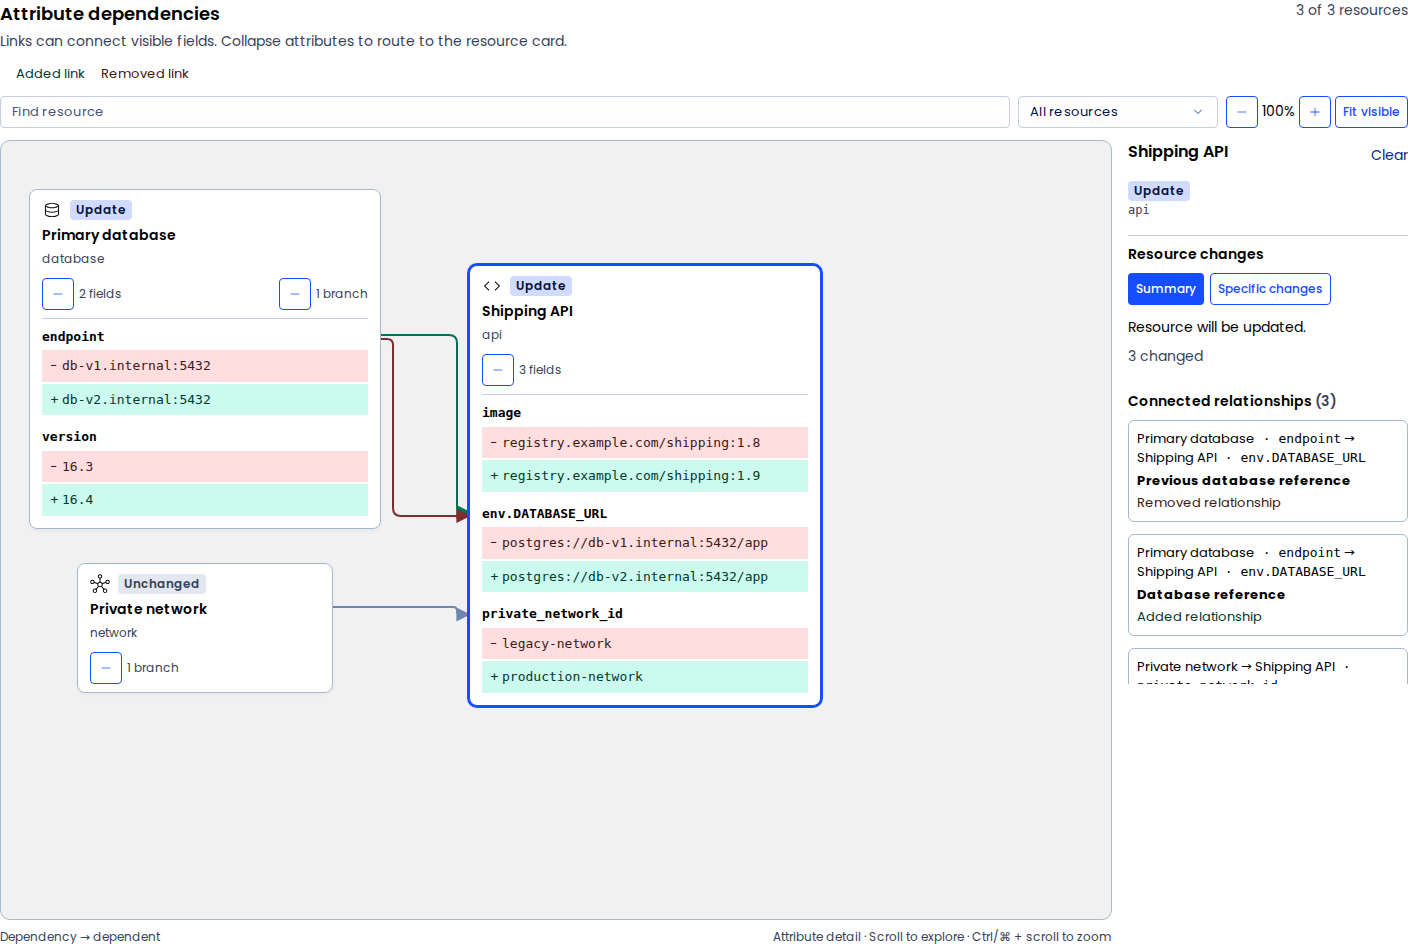
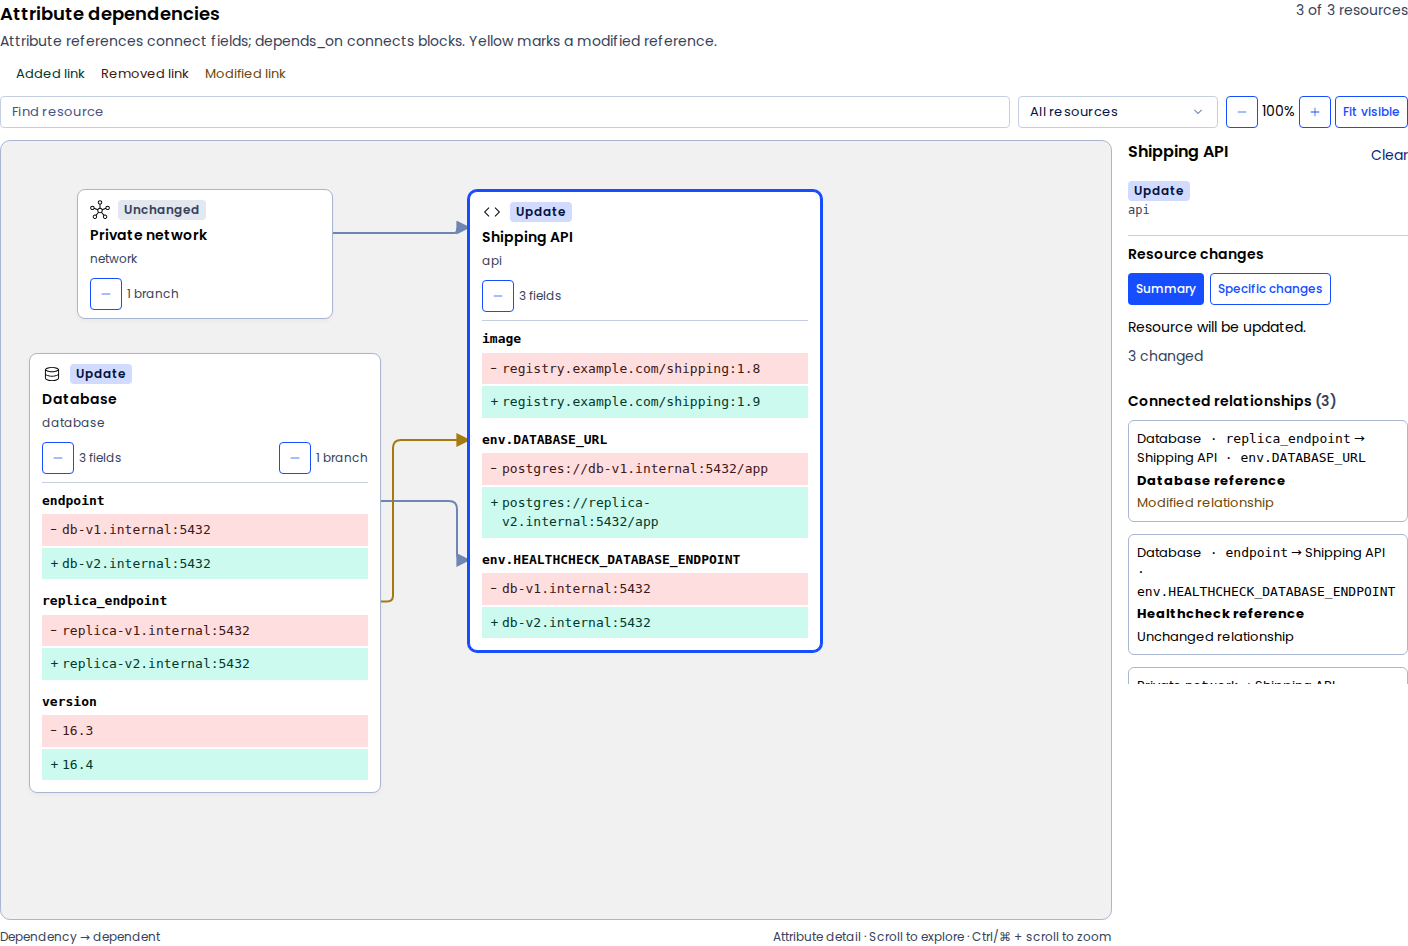
feat: distinguish modified attribute references from block dependencies

diff --git a/easy-ui-react/src/DependencyGraph/DependencyGraph.tsx b/easy-ui-react/src/DependencyGraph/DependencyGraph.tsx
@@ -607,7 +607,10 @@ export function DependencyGraph({
         </p>
       )}
       {edges.some(
-        (edge) => edge.change === "add" || edge.change === "remove",
+        (edge) =>
+          edge.change === "add" ||
+          edge.change === "remove" ||
+          edge.change === "update",
       ) && (
         <p
           className={styles.linkLegend}
@@ -619,6 +622,11 @@ export function DependencyGraph({
           <span className={styles.linkChange} data-link-change="remove">
             Removed link
           </span>
+          {edges.some((edge) => edge.change === "update") && (
+            <span className={styles.linkChange} data-link-change="update">
+              Modified link
+            </span>
+          )}
         </p>
       )}
       <div className={styles.toolbar}>
@@ -864,23 +872,27 @@ export function DependencyGraph({
                       aria-hidden="true"
                     >
                       <defs>
-                        {["unknown", "unchanged", "add", "remove"].map(
-                          (change) => (
-                            <marker
-                              key={change}
-                              id={`${instanceId}-arrow-${change}`}
-                              data-link-change={change}
-                              viewBox="0 0 10 10"
-                              refX="9"
-                              refY="5"
-                              markerWidth="7"
-                              markerHeight="7"
-                              orient="auto-start-reverse"
-                            >
-                              <path d="M 0 0 L 10 5 L 0 10 z" />
-                            </marker>
-                          ),
-                        )}
+                        {[
+                          "unknown",
+                          "unchanged",
+                          "add",
+                          "remove",
+                          "update",
+                        ].map((change) => (
+                          <marker
+                            key={change}
+                            id={`${instanceId}-arrow-${change}`}
+                            data-link-change={change}
+                            viewBox="0 0 10 10"
+                            refX="9"
+                            refY="5"
+                            markerWidth="7"
+                            markerHeight="7"
+                            orient="auto-start-reverse"
+                          >
+                            <path d="M 0 0 L 10 5 L 0 10 z" />
+                          </marker>
+                        ))}
                       </defs>
                       {connections.map((connection) => {
                         const ids = connection.edges.map((edge) => edge.id);
@@ -929,7 +941,7 @@ export function DependencyGraph({
                               {connection.edges
                                 .map(
                                   (edge) =>
-                                    `${edge.change === "add" ? "Added: " : edge.change === "remove" ? "Removed: " : ""}${edge.label ?? edge.id}`,
+                                    `${edge.change === "add" ? "Added: " : edge.change === "remove" ? "Removed: " : edge.change === "update" ? "Modified: " : ""}${edge.label ?? edge.id}`,
                                 )
                                 .join("; ")}
                             </title>

diff --git a/easy-ui-react/src/DependencyGraph/DependencyGraph.fixtures.ts b/easy-ui-react/src/DependencyGraph/DependencyGraph.fixtures.ts
@@ -298,7 +298,7 @@ export const relationshipChangeEdges: DependencyGraphEdge[] = [
 export const attributeDependencyNodes: DependencyGraphNode[] = [
   {
     id: "database",
-    label: "Primary database",
+    label: "Database",
     icon: DatabaseIcon,
     iconLabel: "Database",
     change: "update",
@@ -308,6 +308,12 @@ export const attributeDependencyNodes: DependencyGraphNode[] = [
         type: "change",
         before: "db-v1.internal:5432",
         after: "db-v2.internal:5432",
+      },
+      {
+        path: "replica_endpoint",
+        type: "change",
+        before: "replica-v1.internal:5432",
+        after: "replica-v2.internal:5432",
       },
       { path: "version", type: "change", before: "16.3", after: "16.4" },
     ],
@@ -336,42 +342,47 @@ export const attributeDependencyNodes: DependencyGraphNode[] = [
         path: "env.DATABASE_URL",
         type: "change",
         before: "postgres://db-v1.internal:5432/app",
-        after: "postgres://db-v2.internal:5432/app",
+        after: "postgres://replica-v2.internal:5432/app",
       },
       {
-        path: "private_network_id",
+        path: "env.HEALTHCHECK_DATABASE_ENDPOINT",
         type: "change",
-        before: "legacy-network",
-        after: "production-network",
+        before: "db-v1.internal:5432",
+        after: "db-v2.internal:5432",
       },
     ],
   },
 ];
 export const attributeDependencyEdges: DependencyGraphEdge[] = [
   {
-    id: "old-database-reference",
+    id: "database-reference",
     source: "database",
     target: "api",
-    sourceAttributePath: "endpoint",
+    sourceAttributePath: "replica_endpoint",
     targetAttributePath: "env.DATABASE_URL",
-    change: "remove",
-    label: "Previous database reference",
-  },
-  {
-    id: "new-database-reference",
-    source: "database",
-    target: "api",
-    sourceAttributePath: "endpoint",
-    targetAttributePath: "env.DATABASE_URL",
-    change: "add",
+    change: "update",
     label: "Database reference",
+    description:
+      "Reference changed from database.primary.endpoint to database.primary.replica_endpoint. The caller matches it as one modified relationship.",
   },
   {
-    id: "network-reference",
+    id: "healthcheck-reference",
+    source: "database",
+    target: "api",
+    sourceAttributePath: "endpoint",
+    targetAttributePath: "env.HEALTHCHECK_DATABASE_ENDPOINT",
+    change: "unchanged",
+    label: "Healthcheck reference",
+    description:
+      "The expression still references database.primary.endpoint. Its resolved value changes, but the relationship remains unchanged.",
+  },
+  {
+    id: "network-depends-on",
     source: "network",
     target: "api",
-    targetAttributePath: "private_network_id",
     change: "unchanged",
-    label: "Private network reference",
+    label: "Explicit depends_on",
+    description:
+      "depends_on = [network.private] creates a block-to-block dependency.",
   },
 ];

diff --git a/easy-ui-react/src/DependencyGraph/DependencyGraph.test.tsx b/easy-ui-react/src/DependencyGraph/DependencyGraph.test.tsx
@@ -631,3 +631,45 @@ describe("DependencyGraph zoom and branch disclosures", () => {
     expect(additions[2]).toHaveTextContent("😀new");
   });
 });
+
+it("renders a caller-matched modified reference once and preserves its selection identity", () => {
+  const { container } = render(
+    <DependencyGraph
+      title="References"
+      nodes={[
+        { id: "a", label: "A", change: "unchanged" },
+        { id: "b", label: "B", change: "unchanged" },
+      ]}
+      edges={[
+        {
+          id: "reference",
+          source: "a",
+          target: "b",
+          sourceAttributePath: "endpoint",
+          targetAttributePath: "url",
+          change: "update",
+          label: "Database reference",
+        },
+      ]}
+      defaultView={{ scope: "changes", depth: 0 }}
+      defaultSelection={{ type: "node", id: "b" }}
+    />,
+  );
+  expect(container.querySelectorAll("[data-graph-edge-ids]")).toHaveLength(1);
+  const edge = container.querySelector("[data-graph-edge-ids]");
+  expect(edge).toHaveAttribute(
+    "data-graph-edge-ids",
+    JSON.stringify(["reference"]),
+  );
+  expect(edge).toHaveAttribute("data-link-change", "update");
+  expect(edge?.querySelector("path[marker-end]")).toHaveAttribute(
+    "marker-end",
+    expect.stringContaining("arrow-update"),
+  );
+  expect(screen.getByText("Modified link")).toBeInTheDocument();
+  const relationship = screen.getByRole("button", {
+    name: /Database reference.*Modified relationship/,
+  });
+  fireEvent.click(relationship);
+  expect(relationship).toHaveAttribute("aria-pressed", "true");
+});

diff --git a/easy-ui-react/src/DependencyGraph/model.test.ts b/easy-ui-react/src/DependencyGraph/model.test.ts
@@ -238,17 +238,20 @@ it("preserves separate added and removed links when collapsing endpoints into gr
       .sort(),
   ).toEqual([["new", "other-add"], ["old"]]);
 });
-it("includes both supplied endpoints of changed links in the changes view at depth zero", () => {
-  expect(
-    [
-      ...visibleDependencyNodes(
-        [
-          { id: "a", label: "A", change: "unchanged" },
-          { id: "b", label: "B", change: "unchanged" },
-        ],
-        [{ id: "link", source: "a", target: "b", change: "remove" }],
-        { scope: "changes", depth: 0 },
-      ),
-    ].sort(),
-  ).toEqual(["a", "b"]);
-});
+it.each(["add", "remove", "update"] as const)(
+  "includes endpoints of %s links in changes scope with unchanged resources",
+  (change) => {
+    expect(
+      [
+        ...visibleDependencyNodes(
+          [
+            { id: "a", label: "A", change: "unchanged" },
+            { id: "b", label: "B", change: "unchanged" },
+          ],
+          [{ id: "link", source: "a", target: "b", change }],
+          { scope: "changes", depth: 0 },
+        ),
+      ].sort(),
+    ).toEqual(["a", "b"]);
+  },
+);

diff --git a/easy-ui-react/src/DependencyGraph/types.ts b/easy-ui-react/src/DependencyGraph/types.ts
@@ -41,7 +41,7 @@ export type DependencyGraphNode = {
 
 /** Caller-supplied relationship delta, independent of resource operations. */
 export type DependencyGraphEdgeChange =
-  "add" | "remove" | "unchanged" | "unknown";
+  "add" | "remove" | "update" | "unchanged" | "unknown";
 
 export type DependencyGraphEdge = {
   id: string;
@@ -54,9 +54,9 @@ export type DependencyGraphEdge = {
   description?: string;
   /** Presentation only. For example, use dashed for an inferred relationship. */
   variant?: "solid" | "dashed";
-  /** Omitted status is unknown. Supply both old and new links to review topology changes. */
+  /** Omitted status is unknown. Use update for a caller-matched modified relationship, rendered once. */
   change?: DependencyGraphEdgeChange;
-  /** Exact path of a visible source attribute; falls back to the card when hidden. */
+  /** Reference attribute path; omit both paths for block-level depends_on. Hidden fields fall back to the card. */
   sourceAttributePath?: string;
   /** Exact path of a visible dependent attribute; falls back to the card when hidden. */
   targetAttributePath?: string;

diff --git a/easy-ui-react/src/DependencyGraph/DependencyGraphDetails.tsx b/easy-ui-react/src/DependencyGraph/DependencyGraphDetails.tsx
@@ -199,9 +199,11 @@ export function DependencyGraphDetails(props: DependencyGraphDetailsProps) {
                         ? "Added relationship"
                         : edge.change === "remove"
                           ? "Removed relationship"
-                          : edge.change === "unchanged"
-                            ? "Unchanged relationship"
-                            : "Relationship change unknown"}
+                          : edge.change === "update"
+                            ? "Modified relationship"
+                            : edge.change === "unchanged"
+                              ? "Unchanged relationship"
+                              : "Relationship change unknown"}
                     </span>
                   </button>
                   {(!source || !target) && (

diff --git a/easy-ui-react/src/DependencyGraph/model.ts b/easy-ui-react/src/DependencyGraph/model.ts
@@ -258,7 +258,10 @@ export function visibleDependencyNodes(
           .concat(
             edges
               .filter(
-                (edge) => edge.change === "add" || edge.change === "remove",
+                (edge) =>
+                  edge.change === "add" ||
+                  edge.change === "remove" ||
+                  edge.change === "update",
               )
               .flatMap((edge) => [edge.source, edge.target])
               .filter((id) => records.has(id)),

diff --git a/easy-ui-react/src/DependencyGraph/DependencyGraph.stories.tsx b/easy-ui-react/src/DependencyGraph/DependencyGraph.stories.tsx
@@ -245,7 +245,7 @@ export const AttributeDependencies: Story = {
   args: {
     title: "Attribute dependencies",
     description:
-      "Links can connect visible fields. Collapse attributes to route to the resource card.",
+      "Attribute references connect fields; depends_on connects blocks. Yellow marks a modified reference.",
     nodes: attributeDependencyNodes,
     edges: attributeDependencyEdges,
     groups: [],

diff --git a/easy-ui-react/src/DependencyGraph/DependencyGraph.module.scss b/easy-ui-react/src/DependencyGraph/DependencyGraph.module.scss
@@ -634,3 +634,13 @@
   padding: 0 16px 12px;
   font-size: 0.8125rem;
 }
+
+.connection[data-link-change="update"] .edgeLine {
+  stroke: design-token("color.warning.700");
+}
+.edges marker[data-link-change="update"] {
+  fill: design-token("color.warning.700");
+}
+.linkChange[data-link-change="update"] {
+  color: design-token("color.warning.800");
+}

diff --git a/easy-ui-react/skills/easy-ui/references/components.md b/easy-ui-react/skills/easy-ui/references/components.md
@@ -128,6 +128,6 @@ Each DependencyGraph resource can supply `changeSummary` and typed `changes` for
 
 `ExpandButton` and `CollapseButton` provide reusable positive (+) and negative (−) disclosure controls. Supply `accessibilityLabel`, `aria-controls`, and `onPress`; control `expanded` to retain focus while changing the symbol. `DependencyGraph` uses these for inline attributes, groups, and dependent branches. `collapsedNodeIds`/`onCollapsedNodeIdsChange` fold branches independently of `collapsedGroupIds`. Shared resources remain visible through other open paths. Nodes accept the standard `IconSymbol` as `icon` and a caller-owned `iconLabel`. Zoom changes cards from overview (<70%) to summary (<100%) to detail; expanding attributes restores at least 100%.
 
-Supply `edge.change` (`add`, `remove`, `unchanged`, or `unknown`) independently of resource operations. Include removed links in the supplied graph. Added/removed links keep separate routes even with collapsed groups, use green/red arrows without status symbols, and remain individually selectable in relationship details. Changes scope includes their endpoints.
+Supply `edge.change` (`add`, `remove`, `update`, `unchanged`, or `unknown`) independently of resource operations. Include removed links in the supplied graph. A caller-matched `update` renders one yellow modified link. Reference value changes alone do not imply relationship changes. Omit both attribute paths for explicit block-level `depends_on`. Added/removed links keep separate routes even with collapsed groups, use green/red arrows without status symbols, and remain individually selectable in relationship details. Changes scope includes their endpoints.
 
 Edges may specify `sourceAttributePath` / `targetAttributePath` to connect visible expanded field rows. Hidden/missing fields fall back to card endpoints; supplied paths remain in relationship details. Routing uses rounded orthogonal lanes around cards and group headings.

diff --git a/.changeset/dependency-graph-browser.md b/.changeset/dependency-graph-browser.md
@@ -3,4 +3,4 @@
 "@easypost/easy-ui-icons": minor
 ---
 
-Add DependencyGraph and its selection-details and resource-change companions for directed dependency investigation. Includes bounded neighborhoods, group and dependent-branch collapse, stable selection and relationship bundles, search, keyboard navigation, zoom-aware cards, caller-supplied type icons, responsive stacked/side-by-side attribute diffs, colored added/removed relationship links, optional attribute endpoints, and rounded orthogonal routing, and explicit missing or redacted evidence states. Add reusable ExpandButton (+) and CollapseButton (−) disclosure atoms and Database, Storage, Hub, and Remove icons. Applications retain ownership of relationship discovery, provenance, and operational risk.
+Add DependencyGraph and its selection-details and resource-change companions for directed dependency investigation. Includes bounded neighborhoods, group and dependent-branch collapse, stable selection and relationship bundles, search, keyboard navigation, zoom-aware cards, caller-supplied type icons, responsive stacked/side-by-side attribute diffs, colored added/removed/modified relationship links, optional attribute endpoints and block-level depends_on connections, and rounded orthogonal routing, and explicit missing or redacted evidence states. Add reusable ExpandButton (+) and CollapseButton (−) disclosure atoms and Database, Storage, Hub, and Remove icons. Applications retain ownership of relationship discovery, provenance, and operational risk.
